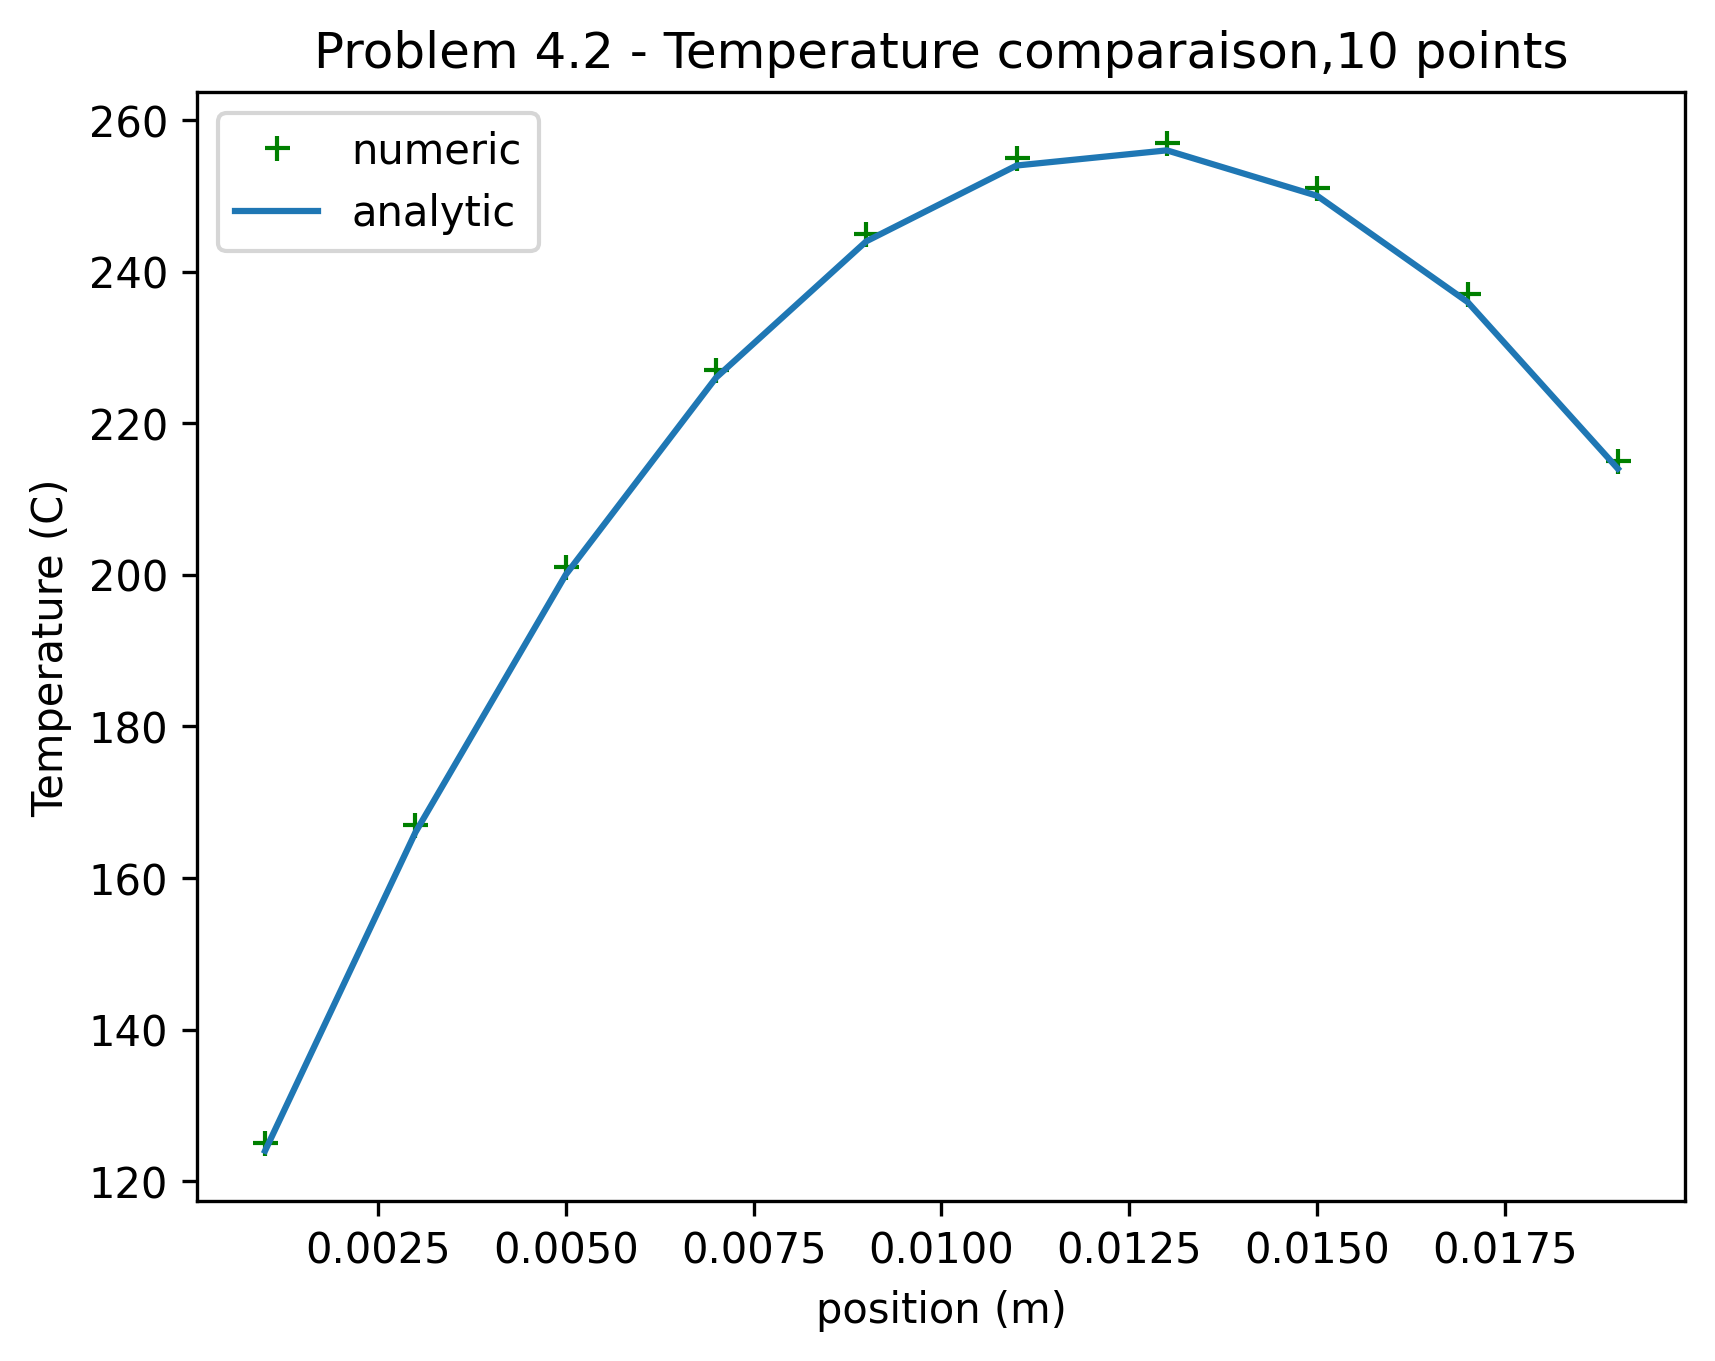
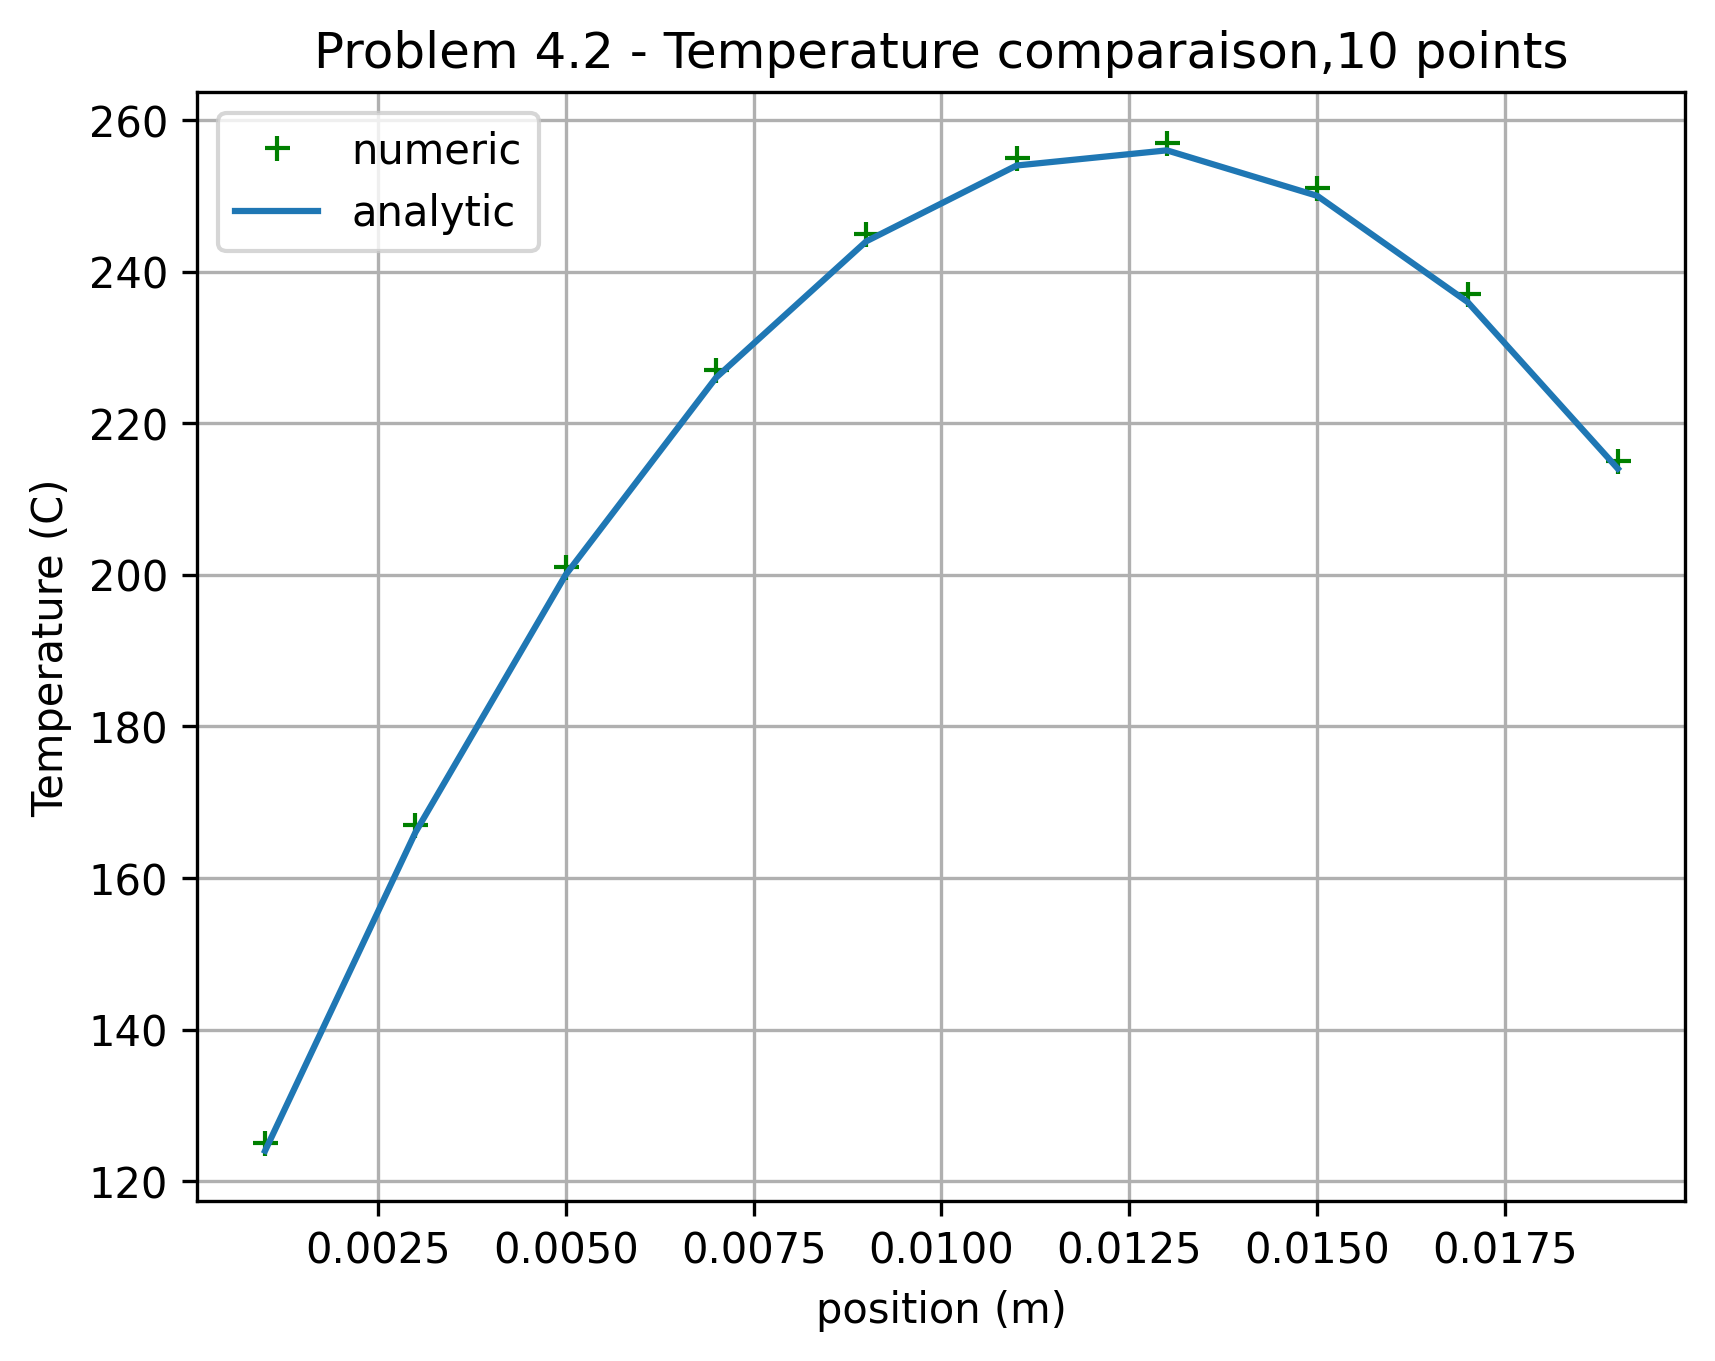
Modifications I dont remember what

diff --git a/LAB_1.py b/LAB_1.py
@@ -197,22 +197,27 @@ def error_L1(data,numeric,analytic,plot=False,string=None):
         plt.ylabel("Temperature (C)")
         plt.title(string)
         plt.legend()
+        plt.grid()
         plt.savefig(f"{string}.png", dpi=300, bbox_inches="tight")
-        plt.show()
+        # plt.show()
         plt.close()
 
     somme_L1 = sum(data.dx*abs(numeric[i]-analytic[i]) for i in range(data.resolution))
     return somme_L1[0]/data.length
 
 def error_L1_graph(error,resolution,string=None):
-    plt.plot(resolution,error,label="error")
-    plt.xlabel("Resolution (-)")
-    plt.ylabel("Error (-)")
+    plt.plot(np.log(1/resolution),np.log(error),label="error")
+    plt.xlabel("ln(h) (-) -- h~1/resolution")
+    plt.ylabel("ln(Error) (-)")
     plt.title(string)
+    plt.grid()
     plt.legend()
     plt.savefig(f"{string}.png", dpi=300, bbox_inches="tight")
-    plt.show()
+    # plt.show()
     plt.close()
+
+    ordre = (np.log(error[-1]/error[0])/np.log((1/resolution[-1])/(1/resolution[0])))
+    return ordre
 
 
 if __name__ == "__main__":
@@ -245,7 +250,7 @@ if __name__ == "__main__":
 
     ## Analyse probleme 1
 
-    nStep=5
+    nStep=10
     err = np.zeros(nStep)
     resolution = np.zeros(nStep)
 
@@ -263,7 +268,8 @@ if __name__ == "__main__":
         plot=False
     
     title = "Problem 4.1 - Error analysis"
-    error_L1_graph(err,resolution,title)
+    print("Ordre de l'erreur 4.1 : ", error_L1_graph(err,resolution,title))
+
 
 
     ## Problem 2:
@@ -313,7 +319,7 @@ if __name__ == "__main__":
         plot=False
 
     title = "Problem 4.2 - Error analysis"
-    error_L1_graph(err,resolution,title)
+    print("Ordre de l'erreur 4.2: ", error_L1_graph(err,resolution,title))
 
     ## Problem 3:
     def _parameters3(data):
@@ -363,4 +369,4 @@ if __name__ == "__main__":
         plot=False
 
     title = "Problem 4.3 - Error analysis"
-    error_L1_graph(err,resolution,title)
+    print("Ordre de l'erreur 4.3: ", error_L1_graph(err,resolution,title))
